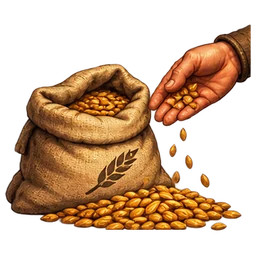
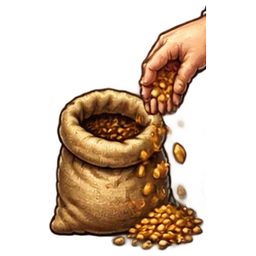
Beta 0.1.10: Logging and Sawmill art, refreshed Farm and Mine art
Claude-Session: https://claude.ai/code/session_01T22SJ6wv5pZUs6rTHt2WWX

diff --git a/ClickToConquer/index.html b/ClickToConquer/index.html
@@ -16,7 +16,7 @@
   <link rel="apple-touch-icon" href="assets/apple-touch-icon.png">
   <link rel="preconnect" href="https://fonts.googleapis.com"><link rel="preconnect" href="https://fonts.gstatic.com" crossorigin>
   <link href="https://fonts.googleapis.com/css2?family=Cinzel:wght@500;700&family=Inter:wght@400;600;700&display=swap" rel="stylesheet">
-  <link rel="stylesheet" href="style.css?v=b019">
+  <link rel="stylesheet" href="style.css?v=b0110">
 </head>
 <body>
 
@@ -490,11 +490,11 @@
 </div>
 
 
-<script src="config.js?v=b019"></script>
-<script src="cloud-config.js?v=b019"></script>
-<script src="game.js?v=b019"></script>
-<script src="ui.js?v=b019"></script>
-<script src="cloud.js?v=b019"></script>
+<script src="config.js?v=b0110"></script>
+<script src="cloud-config.js?v=b0110"></script>
+<script src="game.js?v=b0110"></script>
+<script src="ui.js?v=b0110"></script>
+<script src="cloud.js?v=b0110"></script>
 <script>window.addEventListener("error", e => { const d = document.getElementById("err"); if (d) { d.textContent = "Error: " + e.message; d.classList.remove("hidden"); } });</script>
 <div id="celebrate" class="celebrate hidden" role="status" aria-live="polite"><div class="cb-ico" id="cb-ico"></div><div class="cb-txt"><div class="cb-kicker" id="cb-kicker"></div><div class="cb-title" id="cb-title"></div><div class="cb-sub" id="cb-sub"></div></div></div>
 </body>

diff --git a/ClickToConquer/config.js b/ClickToConquer/config.js
@@ -7,7 +7,7 @@
 // ============================================================
 
 const CONFIG = {
-  version: 'Beta 0.1.9',
+  version: 'Beta 0.1.10',
   tickMs: 100,
   maxCatchupSeconds: 5,
   autosaveMs: 10000,
@@ -504,6 +504,7 @@ const CONFIG = {
   // jobs (jobs completed by hand or thrall), sold (gold earned at market), stage, boss, founded, thrall (assigned), activity (swings).
   // Shown in Settings → What's new (newest first). Keep each line short.
   changelog: [
+    ['Beta 0.1.10', 'New art for Logging and the Sawmill, and a fresh set for the Farm and the Mine.'],
     ['Beta 0.1.9', 'Refreshed art for every Farm and Mine step and pile.'],
     ['Beta 0.1.8', 'New art for the Farm and the Mine: every step and every pile now has its own painting.'],
     ['Beta 0.1.7', 'A new look inside every building: a flow overview shows each step\'s rate and where the bottleneck is; every step has its own card, and the piles between steps show what is waiting and whether it is building up. Step art is on the way.'],

diff --git a/ClickToConquer/ui.js b/ClickToConquer/ui.js
@@ -674,7 +674,7 @@ const UI = (() => {
     setHtml(tip, t); tip.classList.toggle('hidden', !t);
   }
   // Beta 0.1.7: the flow view — overview strip, a card per step, and the piles between them
-  const ART_V = 2; // bump when step/pile art is replaced
+  const ART_V = 3; // bump when step/pile art is replaced
   const artSlot = (src, cls, label) => `<div class="art-slot ${cls}"><span class="art-ph">${label}</span><img src="${src}?v=${ART_V}" alt="" onerror="this.remove()"></div>`;
   function levelHtml(st, d) {
     const id = st.id, key = st.art || id, P = Game.PARTS, nm = p => Game.partName(id, p);
